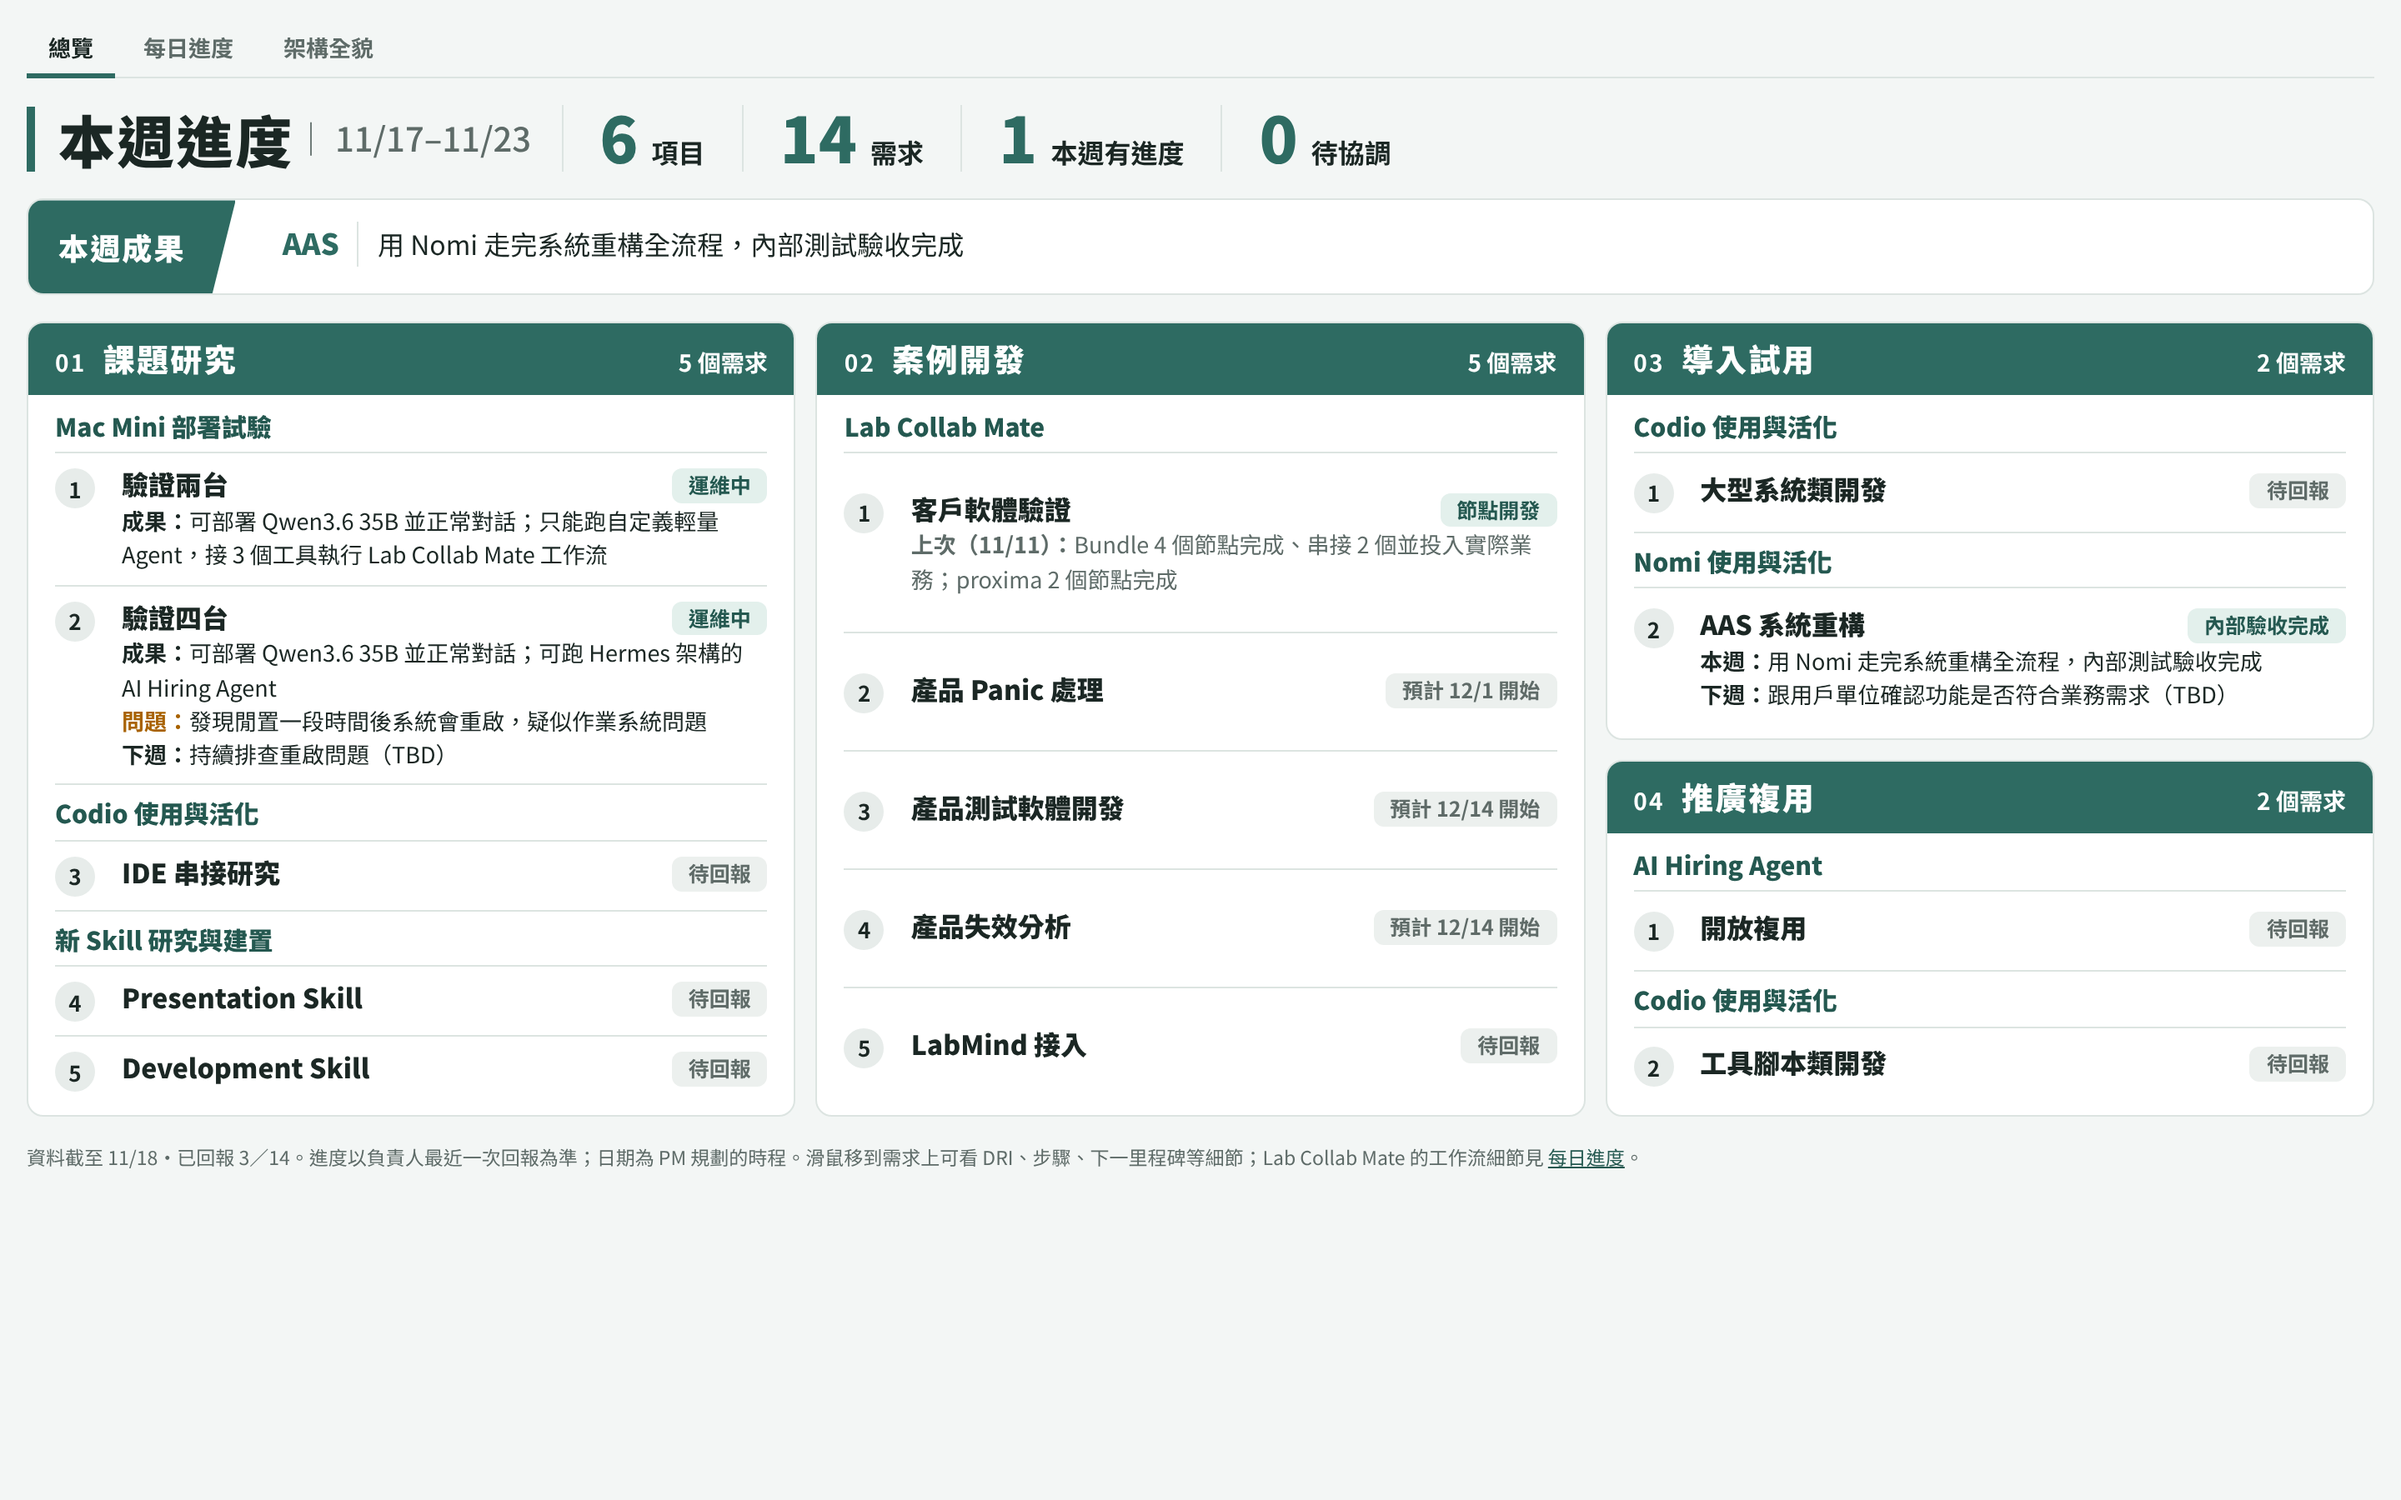
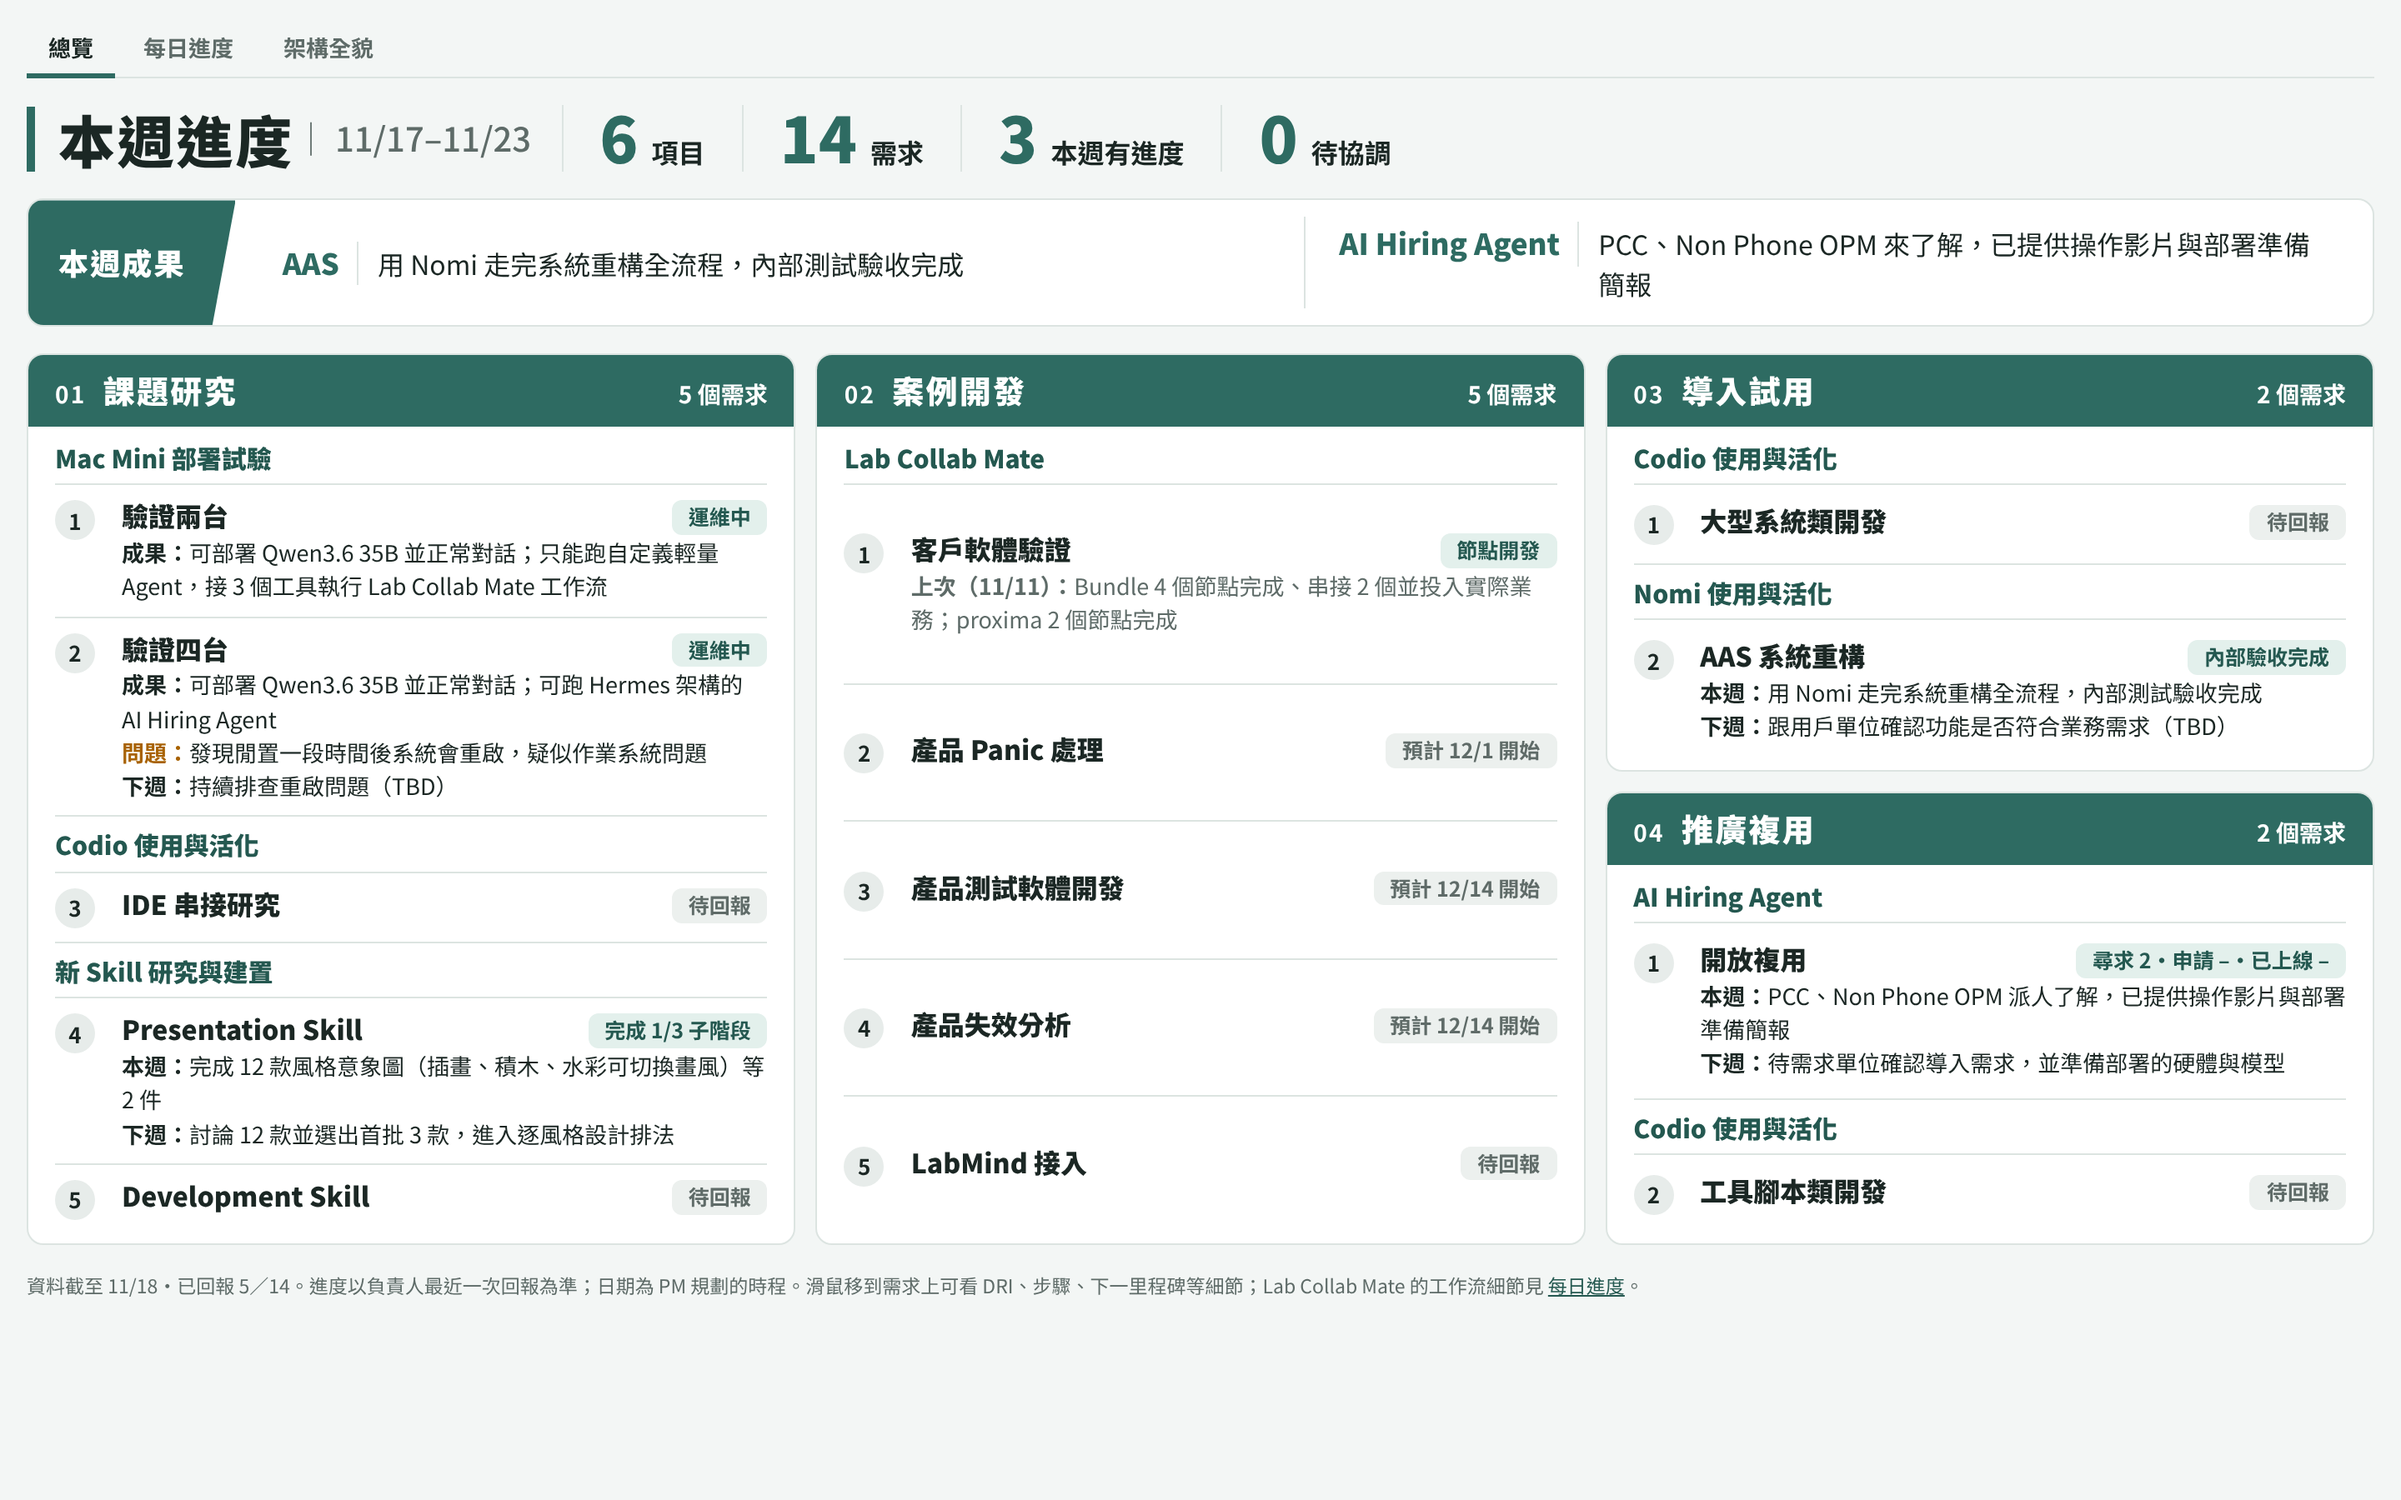
[2026-11-17_overview-redesign] 更新 AI Hiring Agent 與 Presentation Skill 本週進度；Presentation Skill 進度摘要
Claude-Session: https://claude.ai/code/session_01Cd6Gft6mTX8zcMZinAmXya

diff --git a/public/index.html b/public/index.html
@@ -187,7 +187,11 @@ const MODULES = [
           issue:"發現閒置一段時間後系統會重啟，疑似作業系統問題", next:["持續排查重啟問題（TBD）"]}},
     {proj:"Codio 使用與活化", name:"IDE 串接研究", type:"research", dri:null, q:"從 IDE 使用 Codio 與直接使用的差異", rep:null},
     {proj:"新 Skill 研究與建置", name:"Presentation Skill", type:"deliver", dri:null, steps:SKILL, rel:"之後接上 Nomi",
-     sub:{at:2, items:["目標／對象／架構／內容梳理","風格與排版","品管與檢查驗證"]}, rep:null},
+     sub:{at:2, items:["目標／對象／架構／內容梳理","風格與排版","品管與檢查驗證"]},
+     desc:"技能名 deck-architect（從頭到尾支援簡報全流程的 Skill）。進度來源：claude-base-skills repo 的 presentation-skill-generation 分支。目標／對象／架構／內容梳理（方法論）已用 4 份真實簡報驗證；目前在風格與排版（設計美感階段的風格定調）；尚未用真實簡報從頭做到成品。",
+     rep:{now:2, subDone:1,
+          done:["完成 12 款風格意象圖（插畫、積木、水彩可切換畫風）", "依審閱回饋重做顧問報告、週報、攝影雜誌三款"],
+          next:["討論 12 款並選出首批 3 款，進入逐風格設計排法"]}},
     {proj:"新 Skill 研究與建置", name:"Development Skill", type:"deliver", dri:null, steps:SKILL, rel:"由 Codio 執行，InvestGo 驗證",
      sub:{at:2, items:["需求梳理","SRS","原型設計","開發設計文檔","程式碼生成校正","上線運維","測試用例生成"]}, rep:null}
   ]},
@@ -219,7 +223,11 @@ const MODULES = [
           hl:[{i:0, s:"AAS", t:"用 Nomi 走完系統重構全流程，內部測試驗收完成"}]}}
   ]},
   {no:"④", name:"推廣複用", col:2, reqs:[
-    {proj:"AI Hiring Agent", name:"開放複用", type:"promo", dri:null, nums:["尋求","申請","已上線"], numUnit:"單位", rep:null},
+    {proj:"AI Hiring Agent", name:"開放複用", type:"promo", dri:null, nums:["尋求","申請","已上線"], numUnit:"單位",
+     rep:{nums:{"尋求":2},
+          done:["PCC、Non Phone OPM 派人了解，已提供操作影片與部署準備簡報"],
+          next:["待需求單位確認導入需求，並準備部署的硬體與模型"],
+          hl:[{i:0, s:"AI Hiring Agent", t:"PCC、Non Phone OPM 來了解，已提供操作影片與部署準備簡報"}]}},
     {proj:"Codio 使用與活化", name:"工具腳本類開發", type:"promo", dri:null, rep:null}
   ]}
 ];

diff --git a/work/2026-11-17_overview-redesign/inputs/SUMMARY_PresentationSkill-進度.md b/work/2026-11-17_overview-redesign/inputs/SUMMARY_PresentationSkill-進度.md
@@ -1,0 +1,36 @@
+# 摘要：Presentation Skill（deck-architect）進度
+
+> 來源：使用者 2026-11-18 提供的連結 `github.com/mingming2-alya/claude-base-skills`（分支 `presentation-skill-generation`，路徑 `projects/presentation-skill`）。讀取 `ROADMAP.md`、`STATUS.md`、`LOG.md`（截至 commit 4a3ba9d）。
+
+## 專案目標
+
+做出一個從頭到尾支援簡報全流程的 Skill（deck-architect）：使用者的方法論當骨架，市面頂尖 Skill 的設計美感當皮肉。
+
+## 專案自己的階段
+
+| 階段 | 內容 | 狀態 |
+|---|---|---|
+| 0 | 研究、規劃、方法論梳理 | 完成 |
+| 1 | v0 骨架、v1 四次真實簡報迭代（方法論） | 完成 |
+| 2 | 設計美感：2a 研究 → 2b 風格定調 → 2c 逐風格設計排法 → 2d 流程 → 2e 真實簡報驗證 | 進行中（2b） |
+| 3 | 畫面活起來：插畫流程、動態背景、元素跨頁延續 | 未開始 |
+| 4 | 交付與修改：可編輯 PPTX、講者模式、在成品上修改 | 未開始 |
+| 5 | 品質與記憶：獨立評審、外觀帳本、品味記憶 | 未開始 |
+
+專案自己的提醒：還沒有任何一份真實簡報用 deck-architect 從頭做到成品。
+
+## 對應到總覽頁的步驟（Claude 的對應，待使用者確認）
+
+總覽頁步驟：現況調研 → 技能設計 → **建置**（子階段：目標／對象／架構／內容梳理、風格與排版、品管與檢查驗證）→ 實測驗證 → 推廣接入。
+
+- 現況調研、技能設計：完成（階段 0）。
+- 建置・目標／對象／架構／內容梳理：完成（階段 1，方法論已用 4 份真實簡報驗證）。
+- 建置・風格與排版：**進行中**（階段 2，風格定調）。
+- 建置・品管與檢查驗證：未完成（有自動檢查，沒有獨立評審）。
+
+## 本週（11/17–11/18）做了什麼
+
+- 樣張板診斷：發現 10 款共用同一份版面骨架；改為每款獨立骨架，差異用座標量測驗證。
+- 收到使用者參考風格，拆解「背景與文字融入」的做法。
+- 風格清單 v2 → v3（十款意象圖）→ v4（十四款）→ **v5：十二款意象圖**（插畫場景可切換黏土／手繪／霓虹；積木構成可選 2D／3D；水彩水墨可選黑白水墨／厚油彩／彩色水彩；重做顧問報告、日常工作款、攝影雜誌）。
+- 下一步：與使用者討論十二款、選首批三款，進入 2c 逐風格設計排法。
